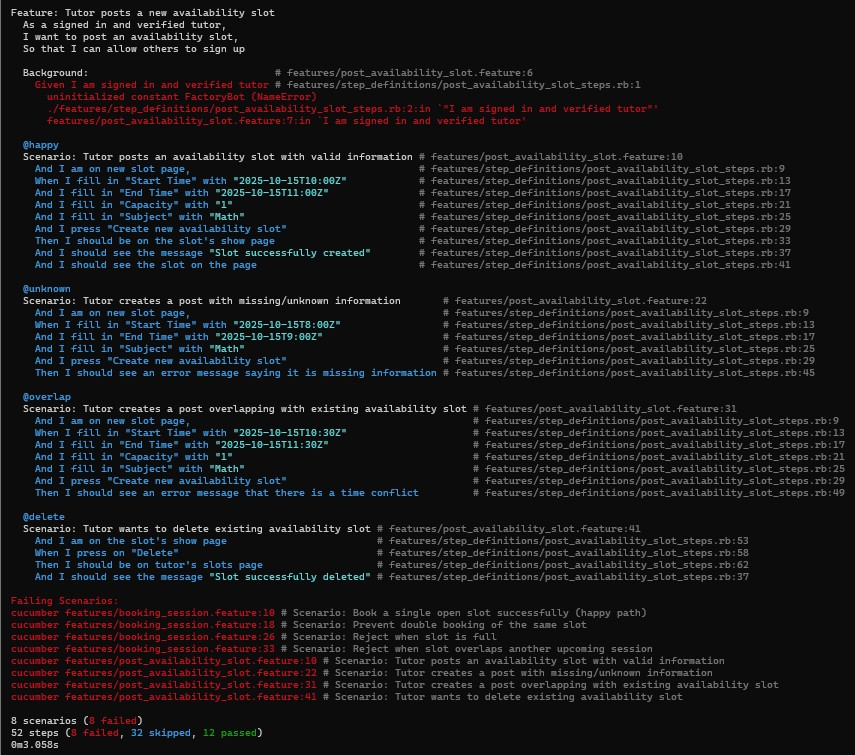
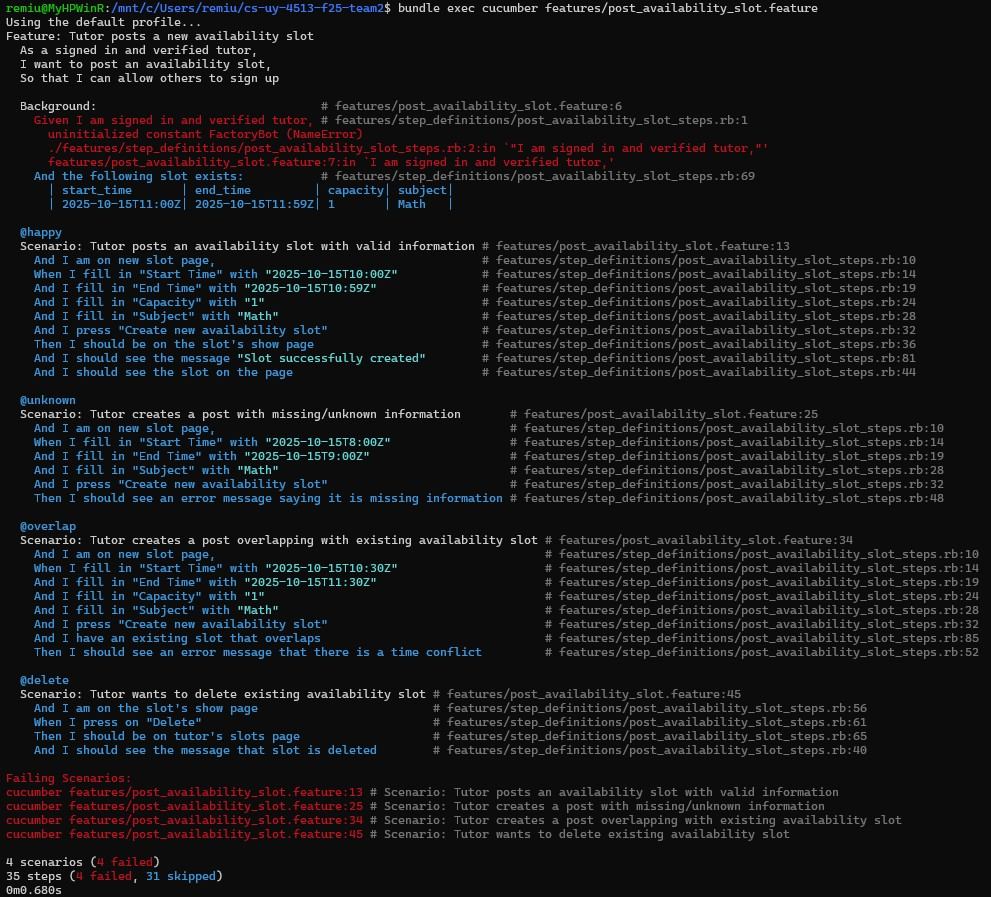
Edits with the step function and feature file. Shows that there is an existing slot during @delete and @overlap scenarios

Changed region(s): [[0.0, 0.0, 1.0, 1.0]]

diff --git a/features/step_definitions/post_availability_slot_steps.rb b/features/step_definitions/post_availability_slot_steps.rb
@@ -1,21 +1,24 @@
-Given('I am signed in and verified tutor') do
-  tutor = FactoryBot.create(:tutor, verified: true)
+Given('I am signed in and verified tutor,') do
+  @tutor = FactoryBot.create(:tutor, verified: true)
   visit new_tutor_session_path
-  fill_in 'Email', with: tutor.email
-  fill_in 'Password', with: tutor.password
+  fill_in 'Email', with: @tutor.email
+  fill_in 'Password', with: @tutor.password
   click_button 'Log in'
+  expect(page).to have_content('Logged in successfully').or have_content('Dashboard')
 end
 
 Given('I am on new slot page,') do
   visit new_tutor_slot_path
 end
 
-When('I fill in "Start Time" with {string}') do |datetime|
-  fill_in 'Start Time', with: datetime
+When('I fill in "Start Time" with {string}') do |datetime_string|
+  time = Time.parse(datetime_string)
+  fill_in 'Start Time', with: time.strftime("%Y-%m-%d %H:%M")
 end
 
-When('I fill in "End Time" with {string}') do |datetime|
-  fill_in 'End Time', with: datetime
+When('I fill in "End Time" with {string}') do |datetime_string|
+  time = Time.parse(datetime_string)
+  fill_in 'End Time', with: time.strftime("%Y-%m-%d %H:%M")
 end
 
 When('I fill in "Capacity" with {string}') do |capacity|
@@ -34,8 +37,8 @@ Then("I should be on the slot's show page") do
   expect(page).to have_current_path(slot_path(Slot.last))
 end
 
-Then('I should see the message {string}') do |message|
-  expect(page).to have_content(message)
+Then('I should see the message that slot is deleted') do
+  expect(page).to have_content("Slot deleted")
 end
 
 Then('I should see the slot on the page') do
@@ -61,4 +64,29 @@ end
 
 Then("I should be on tutor's slots page") do
   expect(page).to have_current_path(tutor_slots_path)
+end
+
+Given('the following slot exists:') do |table|
+  table.hashes.each do |row|
+    @existing_slot = AvailabilitySlot.create!(
+      start_time: Time.parse(row['start_time']),
+      end_time: Time.parse(row['end_time']),
+      capacity: row['capacity'],
+      subject: row['subject'],
+      tutor: @tutor || Tutor.first
+    )
+  end
+end
+
+Then('I should see the message {string}') do |message|
+  expect(page).to have_content(message)
+end
+
+When('I have an existing slot that overlaps') do
+  new_start = @existing_slot.start_time - 30.minutes
+  new_end   = @existing_slot.start_time + 30.minutes
+  @overlaps = (new_start <= @existing_slot.end_time) && (new_end >= @existing_slot.start_time)
+  @new_start_time = new_start
+  @new_end_time = new_end
+  expect(@overlaps).to be true
 end

diff --git a/docs/FEATURES_INDEX.md b/docs/FEATURES_INDEX.md
@@ -1,4 +1,5 @@
 # Team Feature Index
 
 - [Booking Session](./booking_session.md)
+- [Post Availability Slot](./post_availability_slot.md)
 - _(add your feature docs below as you create them.)_
